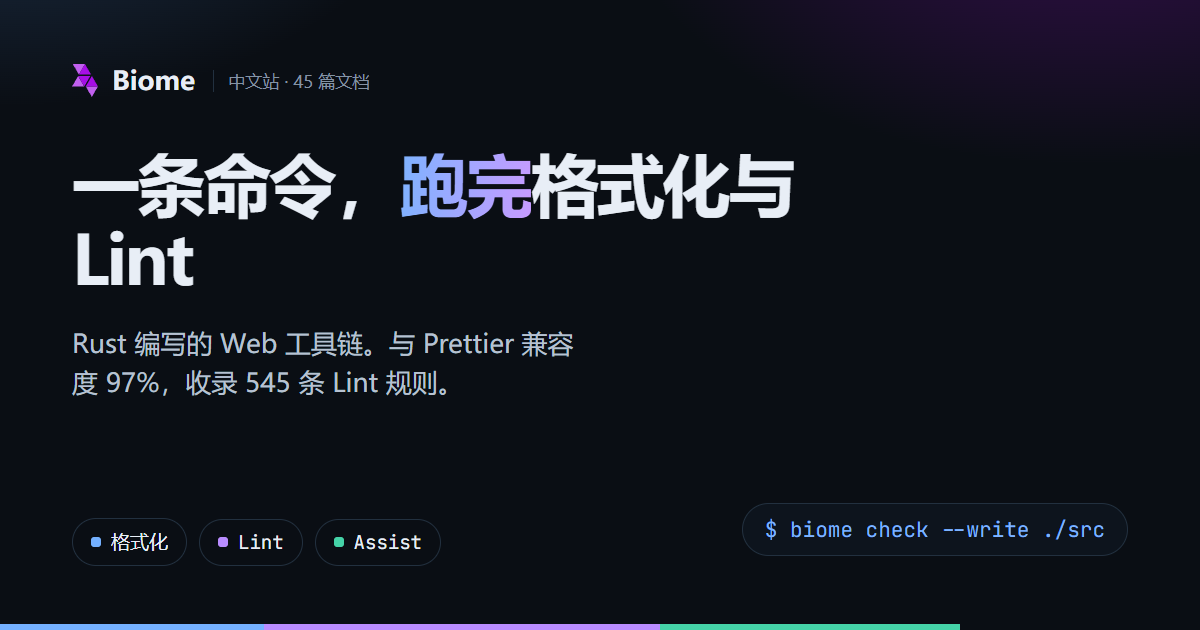
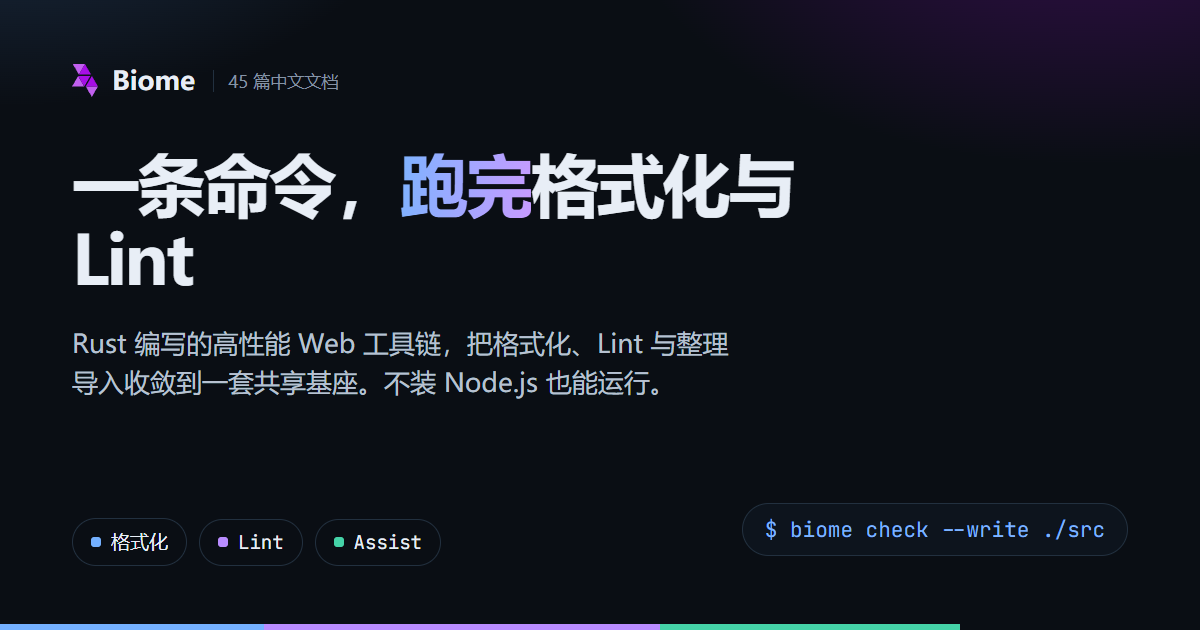
fix(og): 社交卡片导语同步新首页文案并重渲染
og.html 是手写的渲染源文件，改首页时没有跟着走，导致分享出去的卡片文案与落地页不一致。导语换为首页现行文案，并把导语列宽由 34ch 放宽到 44ch 以维持两行节奏；og.png 用 scripts/gen-og.mjs 重新渲染。

🤖 Generated with Codebuff

Changed region(s): [[0.0617, 0.5127, 0.6167, 0.6333], [0.185, 0.1206, 0.3083, 0.1508]]

diff --git a/public/og.html b/public/og.html
@@ -24,7 +24,7 @@
   .brand span.sub { font-family: var(--font-body); font-size: 17px; font-weight: 400; color: var(--muted); border-left: 1px solid var(--line); padding-left: 14px; margin-left: 4px; }
   h1 { margin-top: 50px; font-family: var(--font-display); font-size: 68px; line-height: 1.1; letter-spacing: -.035em; max-width: 19ch; }
   h1 em { font-style: normal; background: linear-gradient(96deg, var(--brand-1), var(--brand-2)); -webkit-background-clip: text; background-clip: text; color: transparent; }
-  p { margin-top: 26px; font-size: 26px; color: #b7c2d1; max-width: 34ch; line-height: 1.5; }
+  p { margin-top: 26px; font-size: 26px; color: #b7c2d1; max-width: 44ch; line-height: 1.5; }
   .lanes { margin-top: auto; display: flex; gap: 12px; align-items: center; font-family: var(--font-mono); font-size: 19px; color: var(--muted); }
   .lane { display: flex; align-items: center; gap: 10px; padding: 10px 18px; border: 1px solid var(--line); border-radius: 999px; color: var(--ink); }
   .lane i { width: 10px; height: 10px; border-radius: 3px; display: block; }
@@ -45,7 +45,7 @@
       Biome<span class="sub">45 篇中文文档</span>
     </div>
     <h1>一条命令，<em>跑完</em>格式化与 Lint</h1>
-    <p>Rust 编写的 Web 工具链。与 Prettier 兼容度 97%，收录 545 条 Lint 规则。</p>
+    <p>Rust 编写的高性能 Web 工具链，把格式化、Lint 与整理导入收敛到一套共享基座。不装 Node.js 也能运行。</p>
     <div class="lanes">
       <span class="lane f"><i></i>格式化</span>
       <span class="lane l"><i></i>Lint</span>
